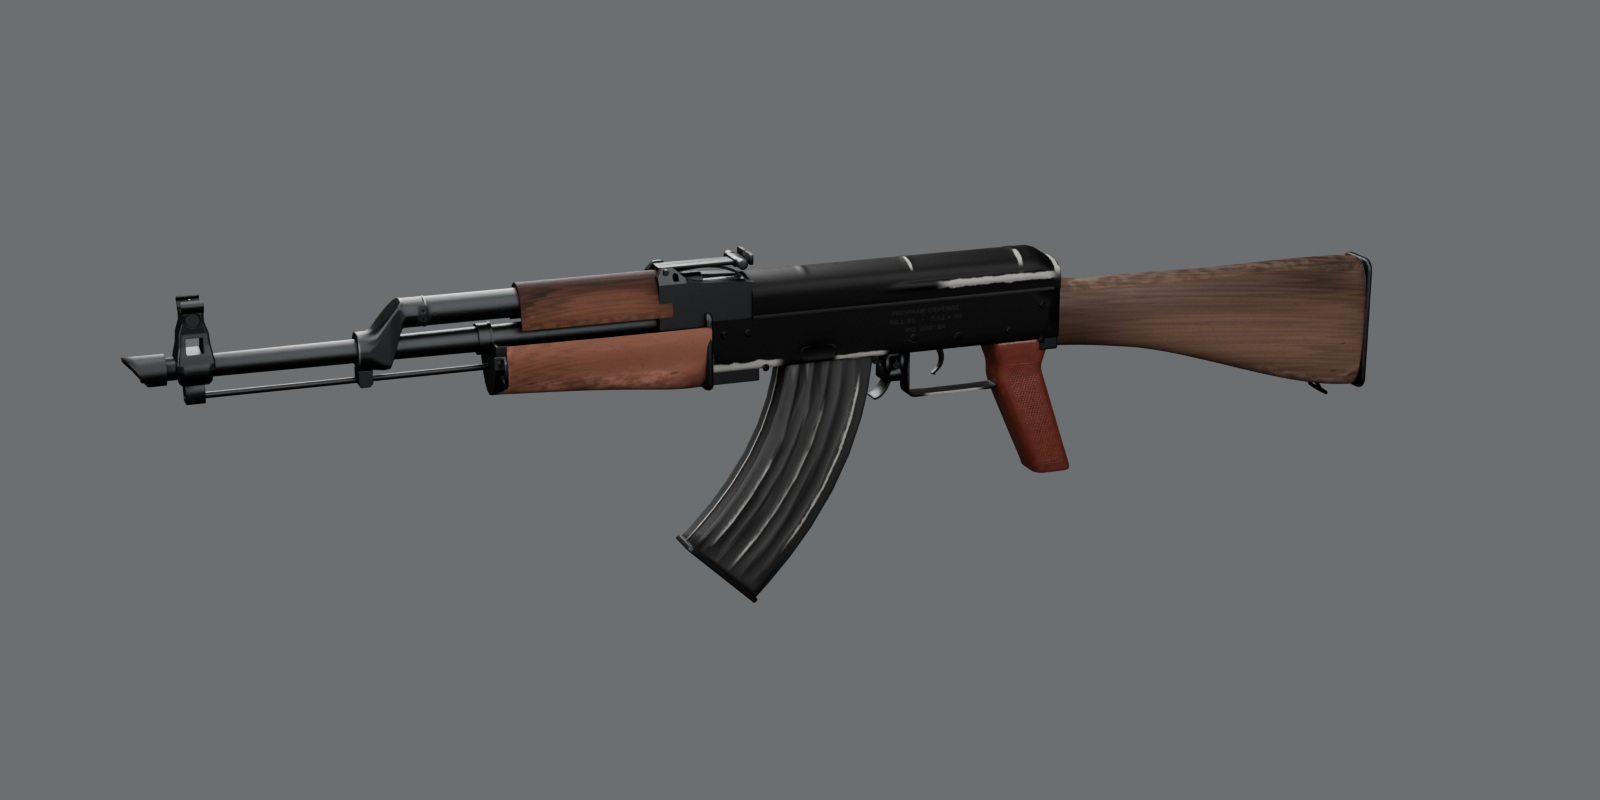
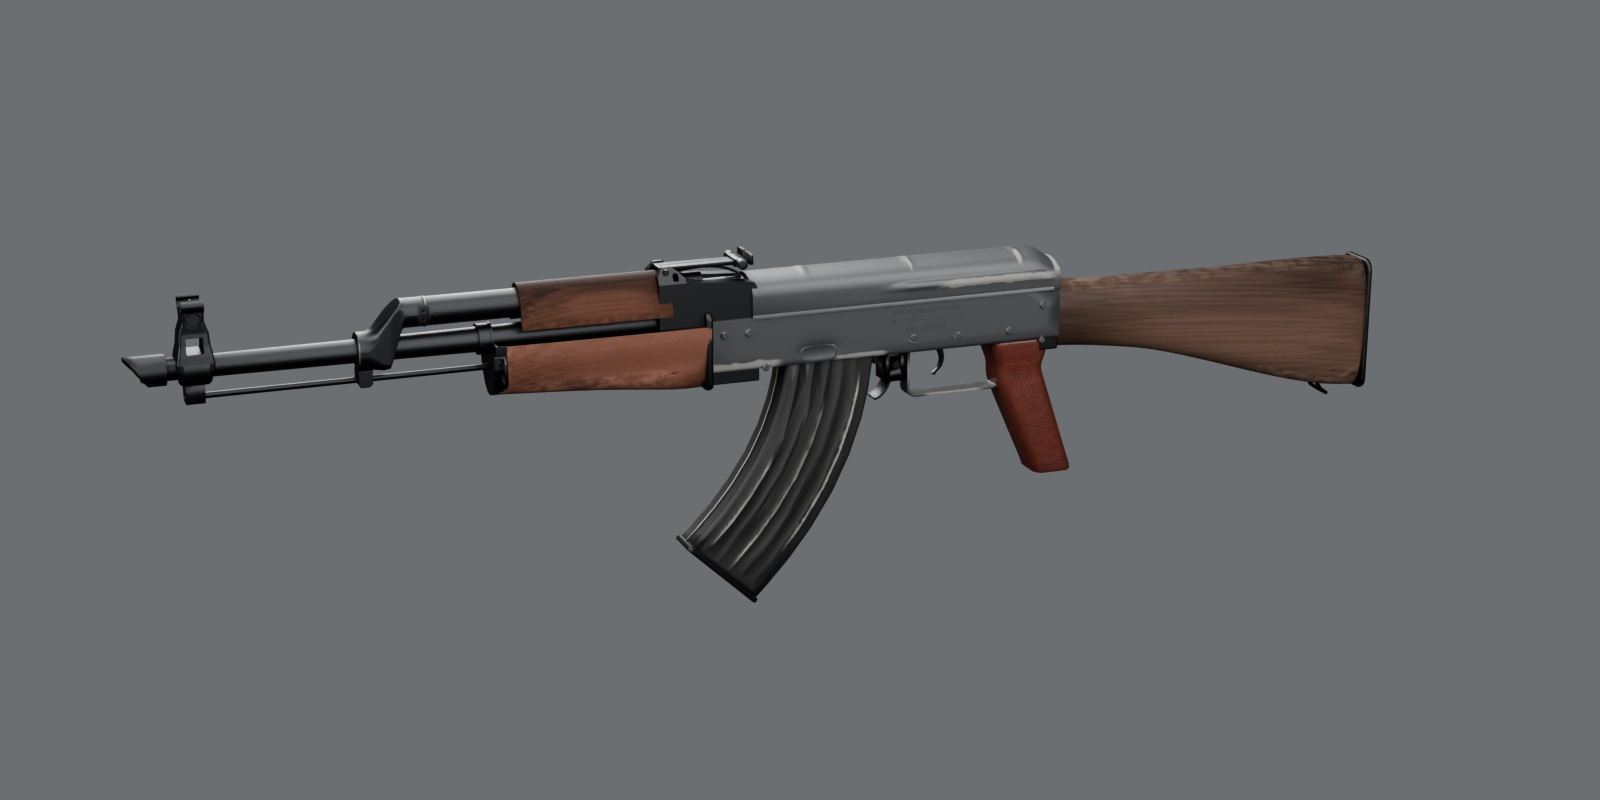
Refresh exported rifle and SMG docs and signature GIFs

Changed region(s): [[0.4375, 0.2812, 0.6875, 0.4688], [0.5625, 0.4688, 0.625, 0.5]]

diff --git a/guns/DETACHABLES.md b/guns/DETACHABLES.md
@@ -247,3 +247,25 @@ remains one 512 region. Repeated base/mip-0–3 proofs are in
 The source gun now depicts extraction, ejection and feeding, with updated
 final/docs images. Earlier preservation manifests and rendered comparisons
 above describe the subset-only delivery before that intentional revision.
+
+## Rill 39 and Relay 9 reviewed paint refresh
+
+Both canonical sets were freshly baked at 4096 and shipped at 2048 after
+raising intact receiver enamel to linear RGB .022/.023/.024. The kit's existing
+subset path regenerated all four detachables per gun. Every output still uses
+one material and three maps; geometry, UV layout, rig, sockets and clips retain
+their original exact baselines. Density remains 1.000, with the same mipmapped
+samplers and guarded regions. Earlier subset-only preservation claims above
+describe that historical handoff, before this intentional receiver-paint bake.
+
+| Family | Main GLB bytes / triangles | Loaded / empty magazine bytes (1024) | Cartridge / case bytes (512) |
+| --- | --- | --- | --- |
+| Rill 39 | 10,839,212 / 40,000 | 1,534,304 / 1,462,400 | 164,864 / 149,672 |
+| Relay 9 | 10,984,144 / 41,540 | 1,318,624 / 1,186,756 | 151,444 / 154,940 |
+
+The member reviews record the deliberate look-baseline changes, accepted GPU
+rounding, unchanged authored wear/other finishes, and existing projection
+contacts where neighboring low surfaces receive changed receiver paint. These
+are not claims of byte-identical nonpaint atlases. Fresh export/import, copied
+atlas samples, geometry/layout identity and per-mip bleed remain checked. No kit
+code changed. Final presentation and GIFs were regenerated from the exports.

diff --git a/guns/GIFS.md b/guns/GIFS.md
@@ -19,8 +19,8 @@ half-open clip intervals, so the endpoint is not counted twice.
 | [shotgun](./shotgun/docs/motion.gif) | `Fire` | 960×447 | 22 | 20 | 254 | 257,807 | 1,600 |
 | [revolver](./revolver/docs/motion.gif) | `Reload` | 576×371 | 67 | 20 | 187 | 433,393 | 3,850 |
 | [bolt](./bolt/docs/motion.gif) | `Fire` | 720×351 | 55 | 25 | 254 | 434,764 | 2,700 |
-| [ak](./ak/docs/motion.gif) | `ReloadEmpty` | 820×443 | 70 | 20 | 252 | 427,451 | 4,000 |
-| [smg](./smg/docs/motion.gif) | `ReloadEmpty` | 960×519 | 70 | 20 | 249 | 300,968 | 4,000 |
+| [ak](./ak/docs/motion.gif) | `ReloadEmpty` | 820×443 | 70 | 20 | 253 | 439,106 | 4,000 |
+| [smg](./smg/docs/motion.gif) | `ReloadEmpty` | 960×519 | 70 | 20 | 249 | 306,046 | 4,000 |
 | [lmg](./lmg/docs/motion.gif) | `Reload` 226–346 | 720×533 | 40 | 20 | 52 | 447,836 | 2,500 |
 
 All palettes allocate at most 256 entries, including transparency for unchanged
@@ -135,3 +135,9 @@ palettes show no objectionable steel bands or dither noise in the reviewed
 sequences. Continuous visual playback was unavailable in this headless session;
 the authored-speed delays were audited and each local `playback.html` opens
 the actual looping GIF for that remaining visual check.
+
+The Rill 39 and Relay 9 receiver-paint refresh rebaked their maps at 4096 and
+regenerated both loops with `make gif` from the final exported GLBs. Their
+clip samples, cameras, lighting, palettes' allocations and output dimensions
+remain unchanged; both sets of seventy decoded frames were inspected in order.
+The member `REVIEW.md` files record the new paint and frame observations.
